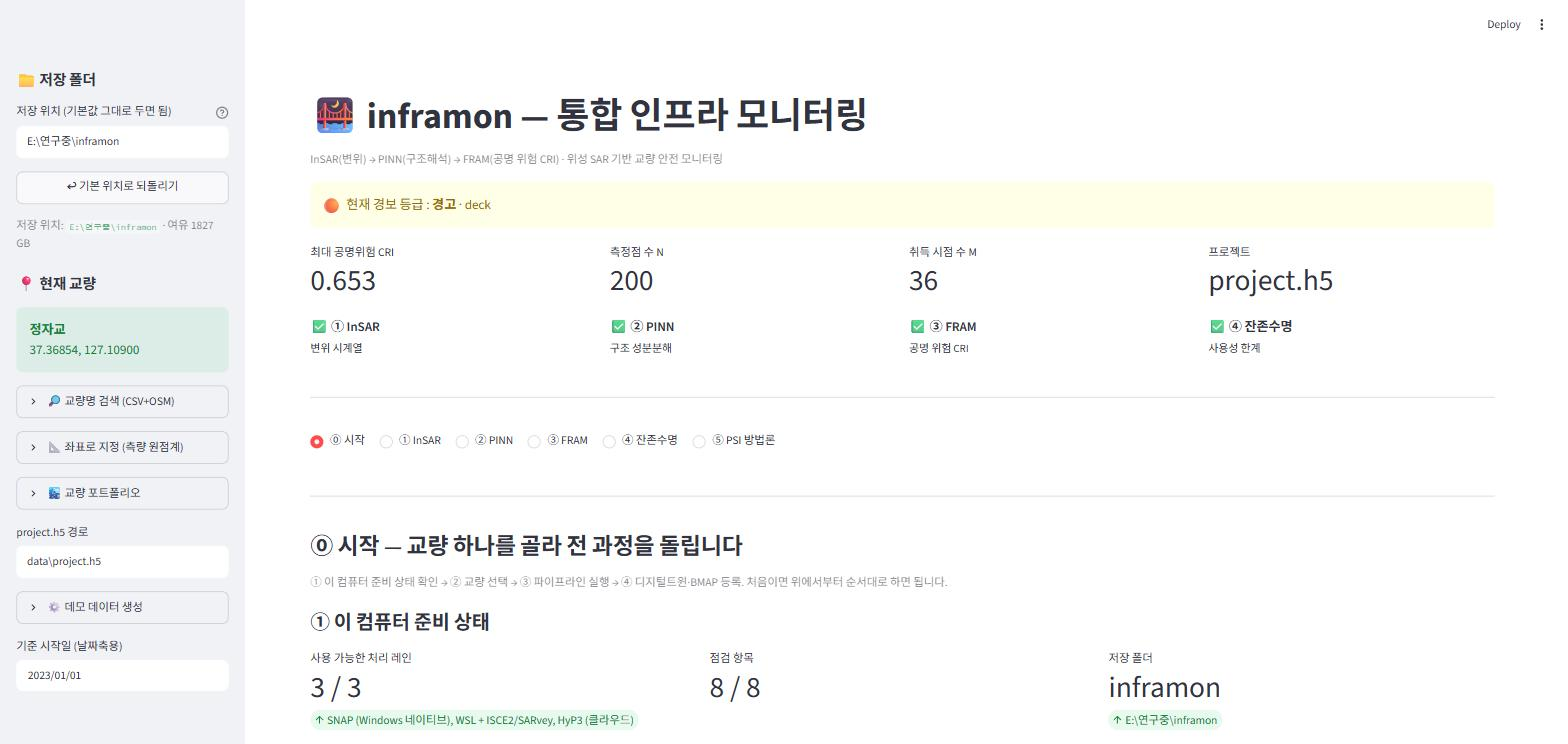
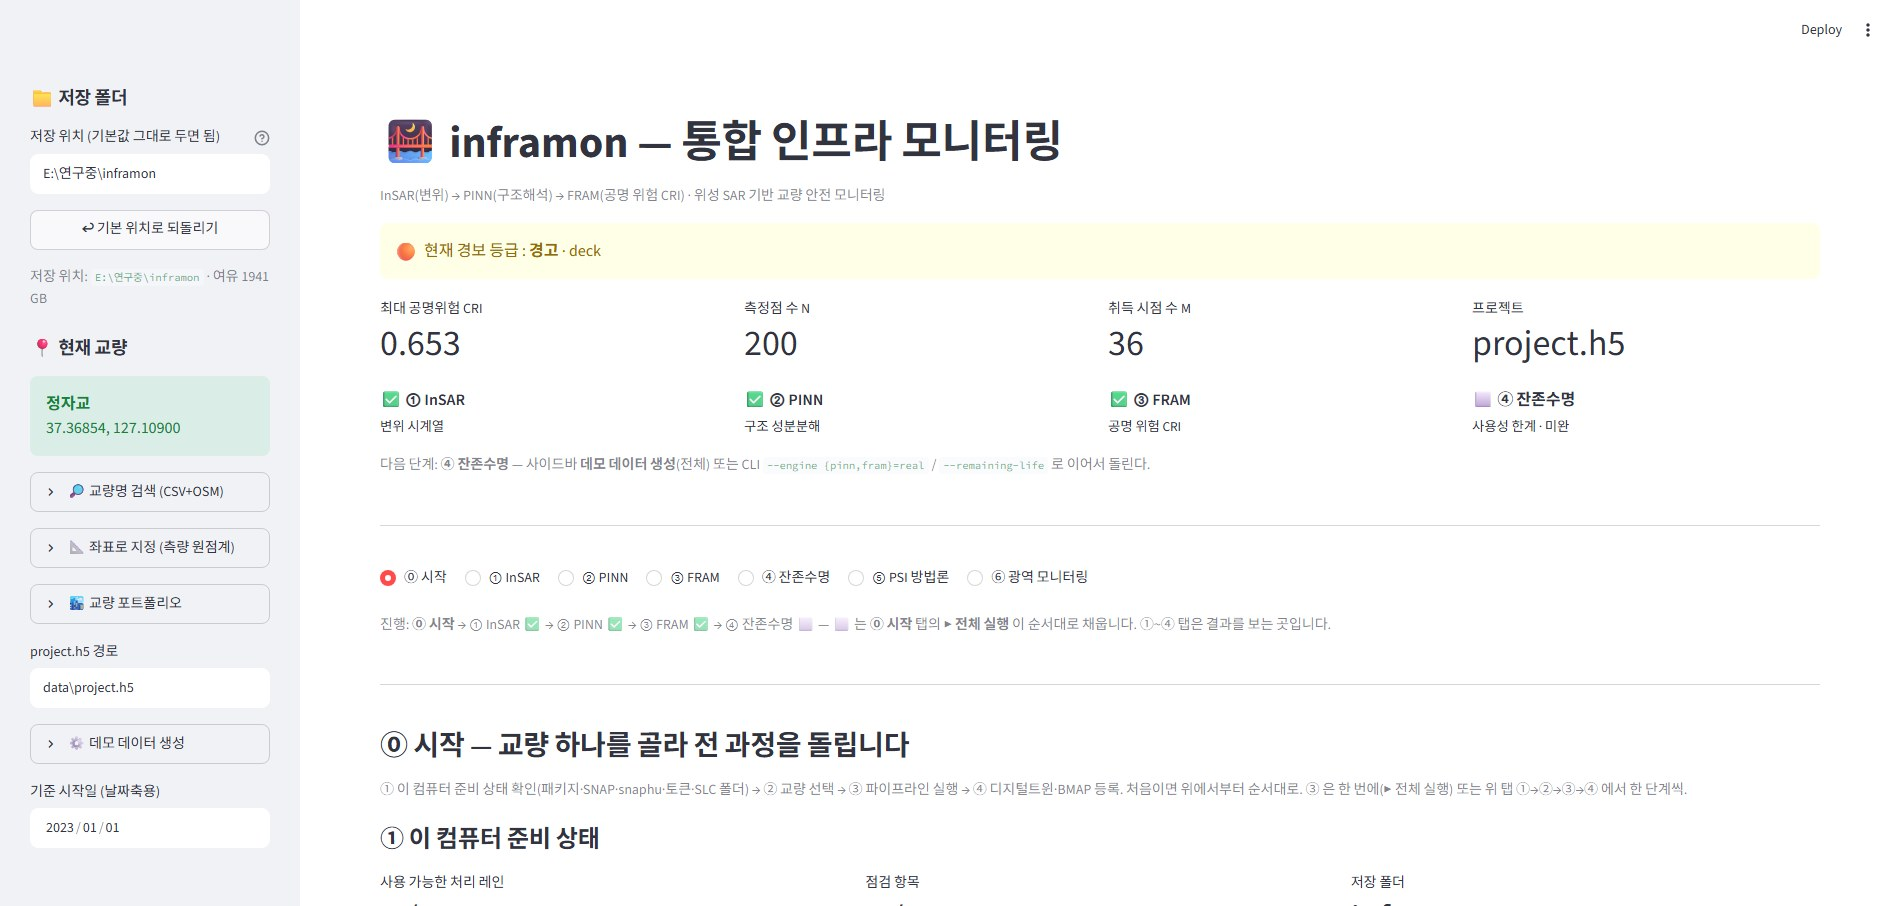
fix(dashboard): ⑥ 광역 모니터링 탭 ImportError 수정 · README 첫 화면을 광역 감시·Pontifex 전송에 맞춤
- app.py 가 .region_tab 을 상대 import 해 `streamlit run app.py` 에서 탭이 열리지 않았다 → 패키지 이름으로 import,
  app.py 에 상대 import 가 없는지 테스트로 고정
- 지역 설정 목록에서 결과가 있는 지역을 먼저
- README: ⑥ 탭 행, 광역 감시·Pontifex 명령, 흐름도에 광역 감시·Pontifex, 빠른 시작(영문·국문), 대시보드 스크린샷 교체

diff --git a/src/inframon/dashboard/region_tab.py b/src/inframon/dashboard/region_tab.py
@@ -19,8 +19,18 @@ from ..region import judge, results
 _COL = {"정상": "#2e8b57", "관심": "#b9a400", "주의": "#d18a00", "경고": "#c8372d", "판정 불가": "#8b97a3", "미처리": "#c9d1d9"}
 
 
+def _has_results(cfg_path: Path) -> bool:
+    import json
+    try:
+        d = json.loads(cfg_path.read_text(encoding="utf-8"))
+        return (Path(results.local_path(d.get("results_dir"))) / "state.json").exists()
+    except (OSError, ValueError):
+        return False
+
+
 def _region_configs(repo_root: Path) -> list[Path]:
-    return sorted((repo_root / "configs").glob("*/region.json"))
+    """결과가 있는 지역을 앞에 — 처음 열었을 때 '결과가 아직 없습니다'부터 보이지 않게."""
+    return sorted((repo_root / "configs").glob("*/region.json"), key=lambda p: (not _has_results(p), str(p)))
 
 
 def tab_region(data_root: str) -> None:

diff --git a/tests/test_dashboard_region_tab.py b/tests/test_dashboard_region_tab.py
@@ -68,3 +68,15 @@ def test_tab_renders_with_results(tab, tmp_path, monkeypatch):
     monkeypatch.setattr(tab, "_region_configs", lambda repo: [])
     monkeypatch.setattr(tab.st, "text_input", lambda *a, **k: str(root))
     tab.tab_region(str(tmp_path))
+
+
+def test_app_has_no_relative_imports():
+    """`streamlit run app.py` 는 app.py 를 패키지 밖 스크립트로 돌린다 — 상대 import 는 그 탭에서 ImportError."""
+    import ast
+    from pathlib import Path
+
+    import inframon.dashboard as pkg
+
+    tree = ast.parse((Path(pkg.__file__).parent / "app.py").read_text(encoding="utf-8"))
+    rel = [n.lineno for n in ast.walk(tree) if isinstance(n, ast.ImportFrom) and n.level > 0]
+    assert not rel, f"app.py 상대 import: {rel}행"

diff --git a/src/inframon/dashboard/app.py b/src/inframon/dashboard/app.py
@@ -2879,7 +2879,9 @@ def main() -> None:
     elif active == _SECTIONS[5]:
         tab_psi(start)
     elif active == _SECTIONS[6]:
-        from .region_tab import tab_region   # 지자체 전체 교량 감시(엔진 결과 판독) — 지연 import
+        # 지자체 전체 교량 감시(엔진 결과 판독) — 지연 import. `streamlit run app.py` 는 이 파일을
+        # 패키지 밖 스크립트로 돌리므로 상대 import(.region_tab)는 ImportError 다.
+        from inframon.dashboard.region_tab import tab_region
         tab_region(data_root())
 
 

diff --git a/CHANGELOG.md b/CHANGELOG.md
@@ -20,6 +20,7 @@ and this project adheres to [Semantic Versioning](https://semver.org/spec/v2.0.0
 - Timoshenko shear/rotary correction for PINN natural frequencies on deep beams (`_timoshenko_factors`). Euler-Bernoulli ignores shear deformation and rotary inertia, so it over-predicts the frequency of short, deep spans — the OpenSees cross-check measured up to 2.4% at slenderness L/h=8 (full shear+rotary reference). The correction multiplies each modal frequency by `1/√(1 + (nπr/L)²(1 + E/κG))` (radius of gyration r²=I/A, shear coefficient κ=5/6, G from ν=0.2), which for a deep beam cuts the error from 2.44% to 0.46% (validated against OpenSees with rotary inertia enabled) and is ≈1 (harmless) for slender bridges where E-B is already accurate. Falls back to identity when the section (width·depth) is unknown. OpenSees gained an optional `rotary` mass term so the reference is full Timoshenko for this check. · 깊은 보 고유진동수에 Timoshenko 전단·회전관성 보정 — L/h=8 서 오차 2.4%→0.5%, 슬렌더 보엔 무해.
 
 ### Fixed
+- The ⑥ region-monitoring tab crashed with `ImportError: attempted relative import with no known parent package` when the dashboard was started the documented way (`streamlit run src/inframon/dashboard/app.py` runs `app.py` as a script, so `from .region_tab import …` cannot resolve); it now imports by package name, and a test rejects relative imports in `app.py`. The region selector lists configurations that already have results first. · ⑥ 광역 모니터링 탭이 `streamlit run` 에서 ImportError 로 열리지 않던 것 수정, 결과가 있는 지역을 먼저 표시.
 - Pontifex hand-off no longer creates a second copy of a bridge the platform already holds: `--pontifex-register` and `--bmap-register` look the bridge up first (`pontifex.find_bridge` / `ensure_bridge`) and register only when it is absent. `build_records` now fills what the platform's own ingest script fills (per-date `critical_members`, `trend`, `lead_time_days`, `function_states`, `date_basis`) and takes its default thresholds from `PipelineConfig.cri_thresholds` (was a private 0.3/0.6/0.8, so a CRI of 0.82 was 위험 on one path and 경고 on the other). A push warns when the platform holds dates under the same source that are not in the artifact (older runs, or the platform's synthetic "inframon 연동 실행"), and `--pontifex-replace` clears that bridge's `inframon` records first. The mock server follows the real contract (CRI optional, name/region lookups, DELETE, `bbox` → 500 as in 1.0). · Pontifex 연동: 기존 교량 먼저 찾기, 레코드 항목·임계 통일, 섞인 관측일 경고와 `--pontifex-replace`.
 
 ### Changed
